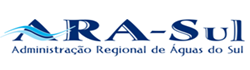
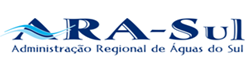
Updates login page
* A side image with a map that shows all the 'ARAs'
* Improves logos, and genera UI

Reviewed and some fixes by: Francisco Puga <fpuga@icarto.es>

refs #2058

diff --git a/utentes/static/css/login.css b/utentes/static/css/login.css
@@ -1,11 +1,18 @@
 body {
-    background-color: #f5f5f5;
+    background-color: #656f83;
+    height: 100vh;
     padding-bottom: 40px;
     padding-top: 40px;
 }
 
-.form-signin {
-    background-color: #fff;
+.login {
+    align-items: center;
+    display: flex;
+    height: 100%;
+    justify-content: center;
+}
+
+.login_row {
     border: 1px solid #e5e5e5;
     -webkit-border-radius: 5px;
     -moz-border-radius: 5px;
@@ -13,20 +20,39 @@ body {
     -webkit-box-shadow: 0 1px 2px rgba(0, 0, 0, 0.05);
     -moz-box-shadow: 0 1px 2px rgba(0, 0, 0, 0.05);
     box-shadow: 0 1px 2px rgba(0, 0, 0, 0.05);
-    margin: 0 auto 20px;
-    max-width: 300px;
-    padding: 19px 29px 29px;
 }
 
-.form-signin .form-signin-heading,
 .form-signin {
-    margin-bottom: 10px;
+    background-color: #fff;
+    max-width: 472px;
+    padding: 20px 100px 20px;
+}
+
+.ara-logo,
+.icarto-logo {
+    align-items: center;
+    display: flex;
+    height: 150px;
+}
+
+.form-signin-info {
+    margin-bottom: 20px;
 }
 
 .form-signin input[type="text"],
 .form-signin input[type="password"] {
     font-size: 16px;
     height: auto;
-    margin-bottom: 15px;
+    margin-bottom: 20px;
     padding: 7px 9px;
+}
+
+.no-gutter {
+    margin-left: 0;
+    margin-right: 0;
+}
+
+.no-gutter > [class*="col-"] {
+    padding-left: 0;
+    padding-right: 0;
 }
